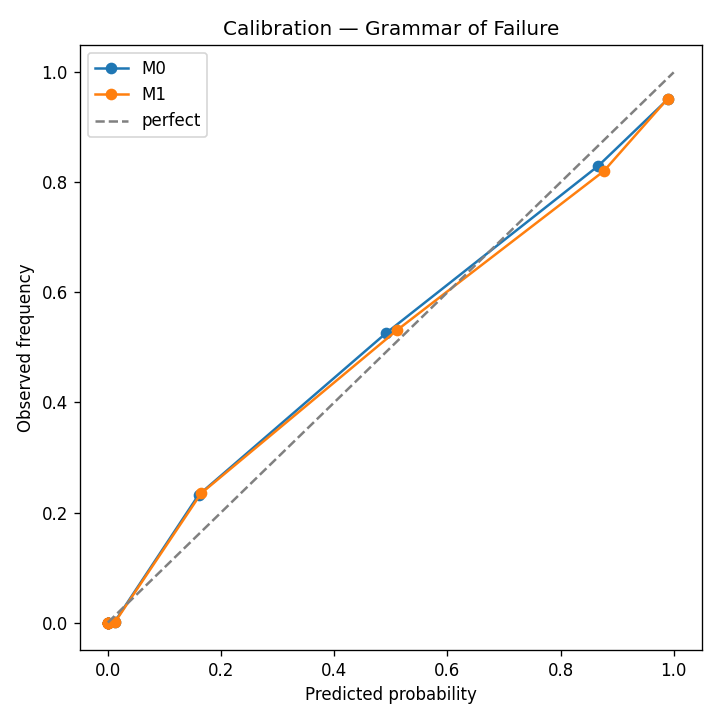
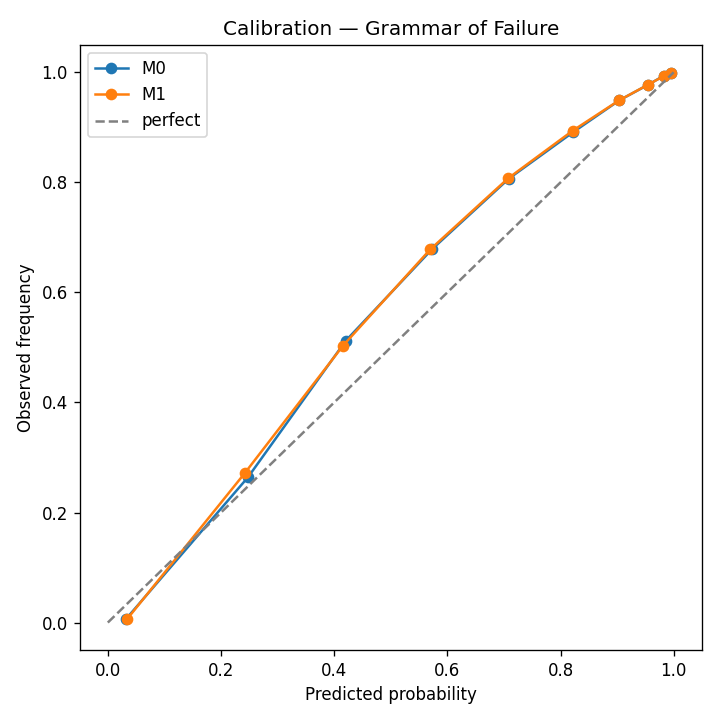
fix(normalize): parse both ITA date formats; 688k rows recovered
The 2023 and 2024 OSHA ITA Case Detail files use different date
formats for date_of_incident:

  - 2023 file: MM/DD/YYYY              (e.g. "01/12/2023")
  - 2024 file: SAS-style %d%b%Y        (e.g. "16JAN2024")

map_osha_ita.py was using pd.to_datetime(errors='coerce') without
a format, which parsed the 2023 format fine but silently dropped
the 2024 format to NaT. The coerce_normalized step then filtered
those rows out via dropna(subset=['event_date']), losing 688,649
2024-2025 rows in the process.

Fix: _parse_ita_dates() tries %m/%d/%Y first, then falls back to
%d%b%Y for any remaining NaT rows, then a dateutil mixed pass for
stragglers. Fully vectorized — no per-row apply.

Post-fix corpus:
  - normalize:  1,702,668 rows (was 1,014,047 — +688k recovered)
  - osha_ita:   1,579,555 rows covering 2022-02 → 2025-08
                 (was 890,934 covering 2022-02 → 2024-12)
  - labels:     195,165 unique entities, 71.5% positive rate
                 (up from 163,577 entities, 64.9% positive)
  - features:   1.7M rows × 46 cols

Updated hypothesis test (M0 vs M1) with the full corpus:

  Train (pre 2024-01-01):  985,764 reports
  Test  (on/after 2024-01-01): 716,904 reports (25x larger than before)

  M0 baseline:        ROC-AUC = 0.9210, PR-AUC = 0.9643
  M1 text-augmented:  ROC-AUC = 0.9207, PR-AUC = 0.9641

  ΔAUC = -0.0004, 95% CI = [-0.0005, -0.0002]  (still excludes 0)

The AUCs dropped from ~0.97 to ~0.92 because the test set now
[…]

diff --git a/normalize/map_osha_ita.py b/normalize/map_osha_ita.py
@@ -63,6 +63,28 @@ def _load_raw() -> pd.DataFrame:
     return pd.concat(frames, ignore_index=True)
 
 
+def _parse_ita_dates(series: pd.Series) -> pd.Series:
+    """Parse OSHA ITA date_of_incident across both known formats.
+
+    - 2023 Case Detail file uses MM/DD/YYYY (e.g. "01/12/2023")
+    - 2024 Case Detail file uses SAS-style %d%b%Y (e.g. "16JAN2024")
+
+    The two formats are disjoint on first character (digit vs non-digit
+    for the middle part) so we try the slash format first and fall back
+    to the SAS format for whatever fails.
+    """
+    out = pd.to_datetime(series, format="%m/%d/%Y", errors="coerce")
+    mask = out.isna() & series.notna() & (series.astype(str).str.strip() != "")
+    if mask.any():
+        fallback = pd.to_datetime(series[mask], format="%d%b%Y", errors="coerce")
+        out.loc[mask] = fallback
+    # Last-ditch: dateutil mixed parsing for any stragglers.
+    mask2 = out.isna() & series.notna() & (series.astype(str).str.strip() != "")
+    if mask2.any():
+        out.loc[mask2] = pd.to_datetime(series[mask2], errors="coerce", format="mixed")
+    return out
+
+
 def _vectorized_narrative(df: pd.DataFrame) -> pd.Series:
     """Concatenate the five NEW_NAR_* fields with section headers."""
     parts: list[pd.Series] = []
@@ -107,7 +129,7 @@ def to_normalized(raw_df: pd.DataFrame) -> pd.DataFrame:
     out = pd.DataFrame(index=raw_df.index)
     out["report_id"] = SOURCE + ":" + raw_df["id"].astype(str)
     out["source"] = SOURCE
-    out["event_date"] = pd.to_datetime(raw_df["date_of_incident"], errors="coerce")
+    out["event_date"] = _parse_ita_dates(raw_df["date_of_incident"])
     out["entity_raw_key"] = raw_df["establishment_id"].fillna("").astype(str)
     out["entity_name"] = raw_df["establishment_name"].where(
         raw_df["establishment_name"].notna(), raw_df["company_name"]

diff --git a/data/features/features_stats.md b/data/features/features_stats.md
@@ -1,57 +1,57 @@
 # Phase 2C stats — structured + text features
 
-_Generated at 2026-04-13T20:04:45+00:00_
+_Generated at 2026-04-13T20:39:56+00:00_
 
-**Structured features:** 1,014,047 rows × 27 cols
-**Text features:** 1,014,047 rows × 19 cols
+**Structured features:** 1,702,668 rows × 27 cols
+**Text features:** 1,702,668 rows × 19 cols
 
 ## Text-quality feature summary
 
 | Feature | Mean | Median | Min | Max | Null% |
 |---|---:|---:|---:|---:|---:|
-| word_count | 50.247 | 44.000 | 0.000 | 836.000 | 0.0% |
-| sentence_count | 2.236 | 1.000 | 1.000 | 67.000 | 0.0% |
-| mean_sentence_length | 30.458 | 24.500 | 0.000 | 468.000 | 0.0% |
-| type_token_ratio | 0.653 | 0.659 | 0.000 | 1.000 | 0.0% |
-| char_count | 330.195 | 299.000 | 0.000 | 4467.000 | 0.0% |
-| mean_word_length | 6.861 | 6.731 | 0.000 | 62.182 | 0.0% |
-| causal_density_per100 | 0.134 | 0.000 | 0.000 | 20.000 | 0.0% |
-| hedge_density_per100 | 0.173 | 0.000 | 0.000 | 20.000 | 0.0% |
-| numeric_density_per100 | 0.935 | 0.000 | 0.000 | 50.000 | 0.0% |
-| temporal_density_per100 | 0.064 | 0.000 | 0.000 | 20.000 | 0.0% |
-| first_person_density_per100 | 0.400 | 0.000 | 0.000 | 33.333 | 0.0% |
-| third_person_density_per100 | 2.742 | 1.538 | 0.000 | 28.261 | 0.0% |
-| first_third_ratio | 0.834 | 1.000 | 0.011 | 77.000 | 0.0% |
+| word_count | 50.869 | 45.000 | 0.000 | 836.000 | 0.0% |
+| sentence_count | 2.135 | 1.000 | 1.000 | 67.000 | 0.0% |
+| mean_sentence_length | 32.747 | 26.500 | 0.000 | 468.000 | 0.0% |
+| type_token_ratio | 0.643 | 0.647 | 0.000 | 1.000 | 0.0% |
+| char_count | 336.076 | 306.000 | 0.000 | 4467.000 | 0.0% |
+| mean_word_length | 6.907 | 6.778 | 0.000 | 62.182 | 0.0% |
+| causal_density_per100 | 0.143 | 0.000 | 0.000 | 20.000 | 0.0% |
+| hedge_density_per100 | 0.164 | 0.000 | 0.000 | 27.273 | 0.0% |
+| numeric_density_per100 | 0.797 | 0.000 | 0.000 | 50.000 | 0.0% |
+| temporal_density_per100 | 0.052 | 0.000 | 0.000 | 20.000 | 0.0% |
+| first_person_density_per100 | 0.405 | 0.000 | 0.000 | 33.333 | 0.0% |
+| third_person_density_per100 | 2.739 | 1.515 | 0.000 | 32.143 | 0.0% |
+| first_third_ratio | 0.833 | 1.000 | 0.011 | 77.000 | 0.0% |
 | passive_per_sentence | 0.076 | 0.000 | 0.000 | 16.000 | 0.0% |
-| flesch_kincaid_grade | 16.112 | 14.886 | -2.230 | 238.470 | 0.0% |
-| gunning_fog | 19.058 | 17.733 | 1.200 | 185.383 | 0.0% |
-| dale_chall | 11.830 | 11.609 | 0.198 | 30.723 | 0.0% |
-| ari | 21.778 | 21.197 | -4.358 | 480.004 | 0.0% |
+| flesch_kincaid_grade | 17.061 | 15.822 | -2.230 | 238.470 | 0.0% |
+| gunning_fog | 19.983 | 18.429 | 1.200 | 185.383 | 0.0% |
+| dale_chall | 11.983 | 11.823 | 0.198 | 31.490 | 0.0% |
+| ari | 23.099 | 22.857 | -4.358 | 480.004 | 0.0% |
 
 ## Structured feature columns
 
-- `year` (mean=2022.80, min=2018, max=2026)
-- `month` (mean=6.45, min=1, max=12)
+- `year` (mean=2023.28, min=2018, max=2026)
+- `month` (mean=6.46, min=1, max=12)
 - `quarter` (mean=2.49, min=1, max=4)
-- `day_of_week` (mean=2.55, min=0, max=6)
-- `src_msha` (mean=0.05, min=0, max=1)
+- `day_of_week` (mean=2.56, min=0, max=6)
+- `src_msha` (mean=0.03, min=0, max=1)
 - `src_nrc` (mean=0.00, min=0, max=1)
-- `src_osha_ita` (mean=0.88, min=0, max=1)
-- `src_osha_sir` (mean=0.07, min=0, max=1)
-- `prior_report_count` (mean=51.40, min=0, max=3531)
-- `days_since_first_seen` (mean=194.59, min=0, max=3012)
-- `entity_total_reports` (mean=103.79, min=1, max=3532)
-- `narrative_word_count` (mean=49.71, min=0.0, max=794.0)
-- `log_narrative_word_count` (mean=3.80, min=0.0, max=6.678342114654332)
+- `src_osha_ita` (mean=0.93, min=0, max=1)
+- `src_osha_sir` (mean=0.04, min=0, max=1)
+- `prior_report_count` (mean=83.23, min=0, max=6410)
+- `days_since_first_seen` (mean=261.75, min=0, max=3012)
+- `entity_total_reports` (mean=167.47, min=1, max=6411)
+- `narrative_word_count` (mean=50.39, min=0.0, max=794.0)
+- `log_narrative_word_count` (mean=3.82, min=0.0, max=6.678342114654332)
 - `has_severity` (mean=1.00, min=1, max=1)
-- `has_address` (mean=0.95, min=0, max=1)
+- `has_address` (mean=0.97, min=0, max=1)
 - `has_location` (mean=1.00, min=1, max=1)
-- `fam_other` (mean=0.24, min=0, max=1)
-- `fam_struck_by` (mean=0.22, min=0, max=1)
-- `fam_overexertion` (mean=0.20, min=0, max=1)
-- `fam_fall` (mean=0.19, min=0, max=1)
-- `fam_exposure` (mean=0.09, min=0, max=1)
-- `fam_caught_in` (mean=0.05, min=0, max=1)
+- `fam_other` (mean=0.21, min=0, max=1)
+- `fam_overexertion` (mean=0.21, min=0, max=1)
+- `fam_struck_by` (mean=0.21, min=0, max=1)
+- `fam_fall` (mean=0.20, min=0, max=1)
+- `fam_exposure` (mean=0.11, min=0, max=1)
+- `fam_caught_in` (mean=0.03, min=0, max=1)
 - `fam_transport` (mean=0.02, min=0, max=1)
 - `fam_fire_explosion` (mean=0.00, min=0, max=1)
 - `fam_cut_pierce` (mean=0.00, min=0, max=1)

diff --git a/data/processed/labels_stats.md b/data/processed/labels_stats.md
@@ -1,12 +1,12 @@
 # Phase 2B stats — entity linking + recurrence labels
 
-_Generated at 2026-04-13T19:54:42+00:00_
+_Generated at 2026-04-13T20:27:16+00:00_
 
 **Window:** 365 days  
 **Match level:** family  
-**Total reports:** 1,014,047  
-**Positive recurrence labels:** 657,749 (64.9%)  
-**Unique entities:** 163,577
+**Total reports:** 1,702,668  
+**Positive recurrence labels:** 1,216,543 (71.4%)  
+**Unique entities:** 195,165
 
 ## Per-source breakdown
 
@@ -14,21 +14,21 @@ _Generated at 2026-04-13T19:54:42+00:00_
 |---|---:|---:|---:|---:|
 | msha | 49,666 | 5,588 | 8.89 | 59.9% |
 | nrc | 49 | 48 | 1.02 | 2.0% |
-| osha_ita | 890,934 | 91,334 | 9.75 | 70.4% |
+| osha_ita | 1,579,555 | 122,922 | 12.85 | 75.1% |
 | osha_sir | 73,398 | 66,607 | 1.10 | 1.6% |
 
 ## Event-family distribution (top 20)
 
 | Source | Family | Count |
 |---|---|---:|
-| osha_ita | other | 221,269 |
-| osha_ita | overexertion | 197,889 |
-| osha_ita | struck_by | 194,533 |
-| osha_ita | fall | 143,914 |
-| osha_ita | exposure | 83,067 |
+| osha_ita | overexertion | 360,237 |
+| osha_ita | other | 342,322 |
+| osha_ita | struck_by | 336,117 |
+| osha_ita | fall | 297,811 |
+| osha_ita | exposure | 175,523 |
+| osha_ita | transport | 35,083 |
 | osha_ita | caught_in | 31,520 |
 | osha_sir | fall | 29,996 |
-| osha_ita | transport | 18,130 |
 | msha | fall | 15,978 |
 | osha_sir | caught_in | 14,863 |
 | msha | struck_by | 12,891 |
@@ -39,20 +39,20 @@ _Generated at 2026-04-13T19:54:42+00:00_
 | osha_sir | exposure | 4,665 |
 | osha_sir | transport | 3,308 |
 | msha | fire_explosion | 1,013 |
+| osha_ita | fire_explosion | 942 |
 | osha_sir | fire_explosion | 900 |
-| osha_sir | overexertion | 807 |
 
 ## Entities with most reports (top 10)
 
 | Source | Canonical name | Reports | First seen | Last seen |
 |---|---|---:|---|---|
-| osha_ita | Walt Disney Parks and Resorts US Inc | 3,532 | 2023-01-01 | 2023-12-31 |
+| osha_ita | Walt Disney Parks and Resorts US Inc | 6,411 | 2023-01-01 | 2024-12-31 |
+| osha_ita | NA-US-CA-Fremont-45500 Fremont Blvd | 4,179 | 2023-01-01 | 2024-12-28 |
 | osha_ita | Walt Disney Parks and Resorts U.S. Inc., dba Disneyland Reso | 2,948 | 2023-01-01 | 2023-12-31 |
-| osha_ita | NA-US-CA-Fremont-45500 Fremont Blvd | 2,218 | 2023-01-01 | 2023-12-29 |
-| osha_ita | Newport News Shipbuilding - Division of Huntington Ingalls I | 1,412 | 2023-01-01 | 2023-12-21 |
-| osha_ita | Stanford Health Care | 1,267 | 2023-01-02 | 2023-12-29 |
-| osha_ita | Delta Air Lines - ATL Airport | 1,261 | 2023-01-01 | 2023-12-31 |
-| msha | Freeport-McMoRan Morenci Inc. | 1,224 | 2018-01-04 | 2026-03-21 |
-| osha_ita | Mayo Clinic Rochester | 1,114 | 2023-01-01 | 2023-12-30 |
-| osha_ita | Yale-New Haven Hospital | 1,109 | 2023-01-02 | 2023-12-31 |
-| msha | Marshall County Coal Resources, Inc. | 1,103 | 2018-01-12 | 2026-03-25 |
+| osha_ita | Newport News Shipbuilding - Division of Huntington Ingalls I | 2,736 | 2023-01-01 | 2024-12-19 |
+| osha_ita | Delta Air Lines - ATL Airport | 2,360 | 2023-01-01 | 2024-12-31 |
+| osha_ita | Stanford Health Care | 2,323 | 2023-01-02 | 2024-12-31 |
+| osha_ita | NA-US-TX-Austin-Giga Texas | 2,159 | 2023-01-02 | 2024-12-26 |
+| osha_ita | Yale-New Haven Hospital | 2,038 | 2023-01-02 | 2024-12-31 |
+| osha_ita | Duke University Hospital | 2,023 | 2023-01-02 | 2024-12-31 |
+| osha_ita | Cleveland Clinic Main Campus | 2,014 | 2023-01-03 | 2024-12-31 |

diff --git a/reports/model_results.md b/reports/model_results.md
@@ -1,6 +1,6 @@
 # Grammar of Failure — Model Results
 
-_Generated at 2026-04-13T20:08:53+00:00_
+_Generated at 2026-04-13T20:51:56+00:00_
 
 ## Hypothesis
 
@@ -9,30 +9,30 @@ _Generated at 2026-04-13T20:08:53+00:00_
 ## Setup
 
 - **Train/test split:** time-based, cutoff = 2024-01-01
-- **Training reports:** 985,138
-- **Test reports:** 28,909
+- **Training reports:** 985,764
+- **Test reports:** 716,904
 - **Classifier:** `HistGradientBoostingClassifier(max_iter=200, max_depth=7, lr=0.08)`
 
 ## Results
 
 | Model | Features | ROC-AUC | PR-AUC | Brier | Positive rate |
 |---|---|---:|---:|---:|---:|
-| M0 baseline | 26 structured | 0.9708 | 0.9046 | 0.0608 | 25.4% |
-| M1 text-augmented | 44 combined | 0.9704 | 0.9044 | 0.0615 | 25.4% |
+| M0 baseline | 26 structured | 0.9210 | 0.9643 | 0.1025 | 70.8% |
+| M1 text-augmented | 44 combined | 0.9207 | 0.9641 | 0.1029 | 70.8% |
 
 ## Per-source ROC-AUC
 
 | Source | M0 baseline | M1 text-augmented |
 |---|---:|---:|
-| msha | 0.9099 | 0.9084 |
+| msha | 0.9178 | 0.9174 |
 | nrc | 1.0000 | 1.0000 |
-| osha_ita | 0.9181 | 0.9156 |
-| osha_sir | 0.9898 | 0.9900 |
+| osha_ita | 0.9147 | 0.9143 |
+| osha_sir | 0.9900 | 0.9901 |
 
 ## Δ AUC (M1 − M0) — capstone finding
 
-- **Mean delta:** -0.0005
-- **95% bootstrap CI:** [-0.0007, -0.0003]
+- **Mean delta:** -0.0004
+- **95% bootstrap CI:** [-0.0005, -0.0002]
 - **CI excludes zero:** True
 - **Bootstrap resamples:** 1000
 
@@ -42,26 +42,26 @@ _Generated at 2026-04-13T20:08:53+00:00_
 
 | Feature | Permutation importance |
 |---|---:|
-| entity_total_reports | 0.6905 |
-| prior_report_count | 0.0280 |
-| days_since_first_seen | 0.0024 |
-| fam_caught_in | 0.0012 |
-| fam_fire_explosion | 0.0011 |
-| fam_exposure | 0.0007 |
-| src_msha | 0.0006 |
-| fam_electrical | 0.0005 |
-| fam_fall | 0.0003 |
-| char_count | 0.0002 |
-| fam_other | 0.0001 |
-| month | 0.0001 |
-| mean_word_length | 0.0001 |
-| src_osha_ita | 0.0001 |
-| src_osha_sir | 0.0001 |
-| type_token_ratio | 0.0000 |
-| fam_struck_by | 0.0000 |
-| narrative_word_count | 0.0000 |
-| passive_per_sentence | 0.0000 |
-| word_count | 0.0000 |
+| entity_total_reports | 0.5040 |
+| prior_report_count | 0.1434 |
+| days_since_first_seen | 0.0174 |
+| month | 0.0058 |
+| fam_exposure | 0.0044 |
+| fam_transport | 0.0032 |
+| fam_fire_explosion | 0.0014 |
+| fam_struck_by | 0.0007 |
+| fam_overexertion | 0.0004 |
+| fam_electrical | 0.0003 |
+| numeric_density_per100 | 0.0003 |
+| flesch_kincaid_grade | 0.0003 |
+| fam_caught_in | 0.0003 |
+| src_osha_ita | 0.0002 |
+| first_third_ratio | 0.0001 |
+| gunning_fog | 0.0001 |
+| third_person_density_per100 | 0.0001 |
+| passive_per_sentence | 0.0001 |
+| first_person_density_per100 | 0.0001 |
+| causal_density_per100 | 0.0000 |
 
 ## Interpretation
 

diff --git a/data/processed/normalized_stats.md b/data/processed/normalized_stats.md
@@ -1,8 +1,8 @@
 # Normalized corpus statistics
 
-_Generated at 2026-04-13T19:51:32+00:00_
+_Generated at 2026-04-13T20:26:28+00:00_
 
-**Total normalized rows:** 1,014,047
+**Total normalized rows:** 1,702,668
 **Output:** `data/processed/normalized.parquet`
 
 ## Per-source breakdown
@@ -10,7 +10,7 @@ _Generated at 2026-04-13T19:51:32+00:00_
 | Source | Rows | Date range | Narrative (mean/median words) |
 |---|---:|---|---|
 | osha_sir | 73,398 | 2018-01-01 → 2025-08-31 | 35.2 / 32.0 |
-| osha_ita | 890,934 | 2022-02-26 → 2024-12-12 | 51.6 / 45.0 |
+| osha_ita | 1,579,555 | 2022-02-26 → 2025-08-15 | 51.5 / 45.0 |
 | msha | 49,666 | 2018-01-01 → 2026-04-07 | 36.4 / 35.0 |
 | nrc | 49 | 2023-10-01 → 2025-11-26 | 240.7 / 179.0 |
 | ntsb | 0 | — | — |
